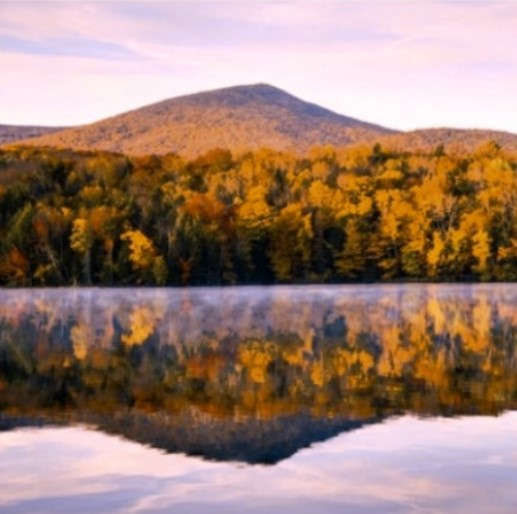
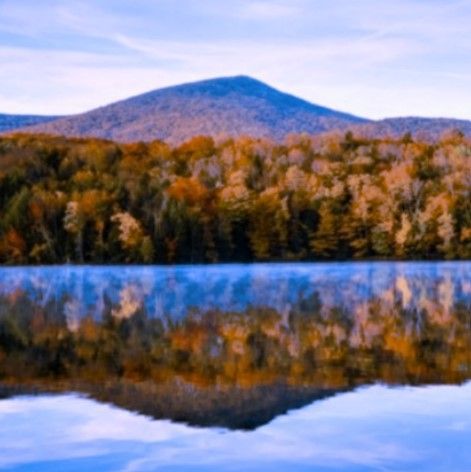
New simulation

diff --git a/content/sketches/imageModification.js b/content/sketches/imageModification.js
@@ -1,27 +1,28 @@
 let img;
-function preload() {
-  img = loadImage('/VisualComputing/sketches/original.jpg');
-}
+    function preload() {
+    img = loadImage('https://xabelian.github.io/VisualComputing/sketches/original.jpg');
+    }
 
-function setup() {
-  createCanvas(404, 402);
-  image(img, 0, 0, width, height);
-  let d = pixelDensity();
-  loadPixels();
-        for (var y = 0; y < height*4; y++) {
-            for (var x = 0; x < width; x++) {
-              var index = (x + y * width)*4;
-              var r = pixels[index+0];
-              var g = pixels[index+1];
-              var b = pixels[index+2];
-              var a = pixels[index+3];     
-              
-              if (g > 80){
-                pixels[index+0] = r+70
-              }
+    function setup() {
+    createCanvas(404, 402);
+    image(img, 0, 0, width, height);
+    let d = pixelDensity();
+    loadPixels();
+            for (var y = 0; y < height*4; y++) {
+                for (var x = 0; x < width; x++) {
+                var index = (x + y * width)*4;
+                var r = pixels[index+0];
+                var g = pixels[index+1];
+                var b = pixels[index+2];
+                var a = pixels[index+3];     
+                
+                if (g > 80){
+                    pixels[index+2] = b+70
+                    //pixels[index+1] = g-40
+                }
 
-              
+                
+            }
         }
-      }
-  updatePixels();
+    updatePixels();
 }

diff --git a/content/docs/Coreccion de color para Daltonismo/Modificacion de imagenes para personas con dificultades en la percepcion de Color.md b/content/docs/Coreccion de color para Daltonismo/Modificacion de imagenes para personas con dificultades en la percepcion de Color.md
@@ -1,4 +1,4 @@
-# Analisis y Modificacion de imagenes para personas con dificultades en la percepcion de color
+# Modificacion de imagenes para personas con dificultades en la percepcion de color
 
 ## Introduccion
 
@@ -201,9 +201,9 @@ La modificación de los valores de RGB permite aumentar el contraste de la image
 
 ```js
 
-    let img;
+   let img;
     function preload() {
-    img = loadImage('/VisualComputing/sketches/original.jpg');
+    img = loadImage('https://xabelian.github.io/VisualComputing/sketches/original.jpg');
     }
 
     function setup() {
@@ -220,7 +220,8 @@ La modificación de los valores de RGB permite aumentar el contraste de la image
                 var a = pixels[index+3];     
                 
                 if (g > 80){
-                    pixels[index+0] = r+70
+                    pixels[index+2] = b+70
+                    //pixels[index+1] = g-40
                 }
 
                 
